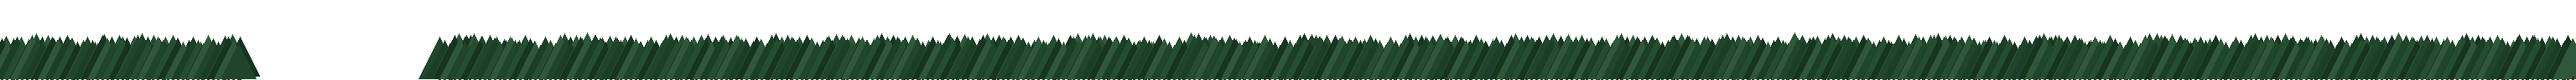
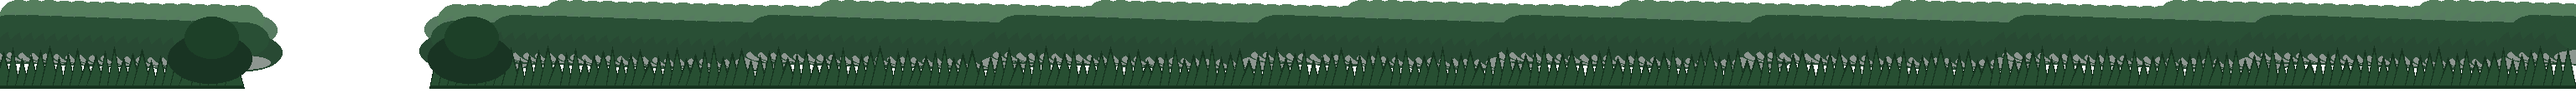
Mass Oakhaven pine canopy, deepen waterfall, and enlarge storefront signs (P95-P98).

diff --git a/projects/06-game-factory/perfect_game/perfect-game/tools/gen_p95_mass.py b/projects/06-game-factory/perfect_game/perfect-game/tools/gen_p95_mass.py
@@ -1,0 +1,218 @@
+"""P95–P97: mass pine canopy, deeper fall bowl, readable pines, hero facades."""
+from __future__ import annotations
+
+import math
+from pathlib import Path
+
+from PIL import Image, ImageDraw, ImageFont
+
+PROC = Path(__file__).resolve().parents[1] / "assets" / "processed"
+WORLD_W = 192 * 16
+
+
+def _font():
+    try:
+        return ImageFont.load_default()
+    except Exception:
+        return None
+
+
+def pine_canopy() -> None:
+    """Hand-mass style canopy: overlapping dark blobs + soft underside, not hatched triangles."""
+    w, h = WORLD_W, 112
+    img = Image.new("RGBA", (w, h), (0, 0, 0, 0))
+    d = ImageDraw.Draw(img)
+
+    def in_wf(x: int) -> bool:
+        return 288 <= x <= 520
+
+    # Far cool band (lighter)
+    for x in range(0, w, 18):
+        if in_wf(x):
+            continue
+        cx = x + 20
+        cy = 28 + (x // 40) % 8
+        d.ellipse((cx - 36, cy - 18, cx + 40, cy + 22), fill=(40, 85, 52, 200))
+        d.ellipse((cx - 20, cy - 28, cx + 24, cy + 8), fill=(48, 98, 58, 210))
+
+    # Mid dark mass
+    for x in range(0, w, 14):
+        if in_wf(x):
+            continue
+        cx = x + 10
+        cy = 48 + (x // 30) % 10
+        d.ellipse((cx - 42, cy - 16, cx + 46, cy + 28), fill=(22, 58, 34, 235))
+        d.ellipse((cx - 28, cy - 30, cx + 30, cy + 10), fill=(28, 68, 40, 240))
+        # soft underside shadow
+        d.ellipse((cx - 30, cy + 10, cx + 32, cy + 26), fill=(12, 32, 20, 120))
+
+    # Near jagged dark tips (readable pine points on mass)
+    for x in range(4, w - 4, 11):
+        if in_wf(x):
+            continue
+        base = h - 6
+        tip = base - (34 + (x * 7) % 18)
+        half = 8 + (x % 5)
+        d.polygon([(x, tip), (x - half, base), (x + half, base)], fill=(18, 48, 28, 250))
+        d.polygon(
+            [(x, tip + 8), (x - half + 2, base - 4), (x + half - 2, base - 4)],
+            fill=(30, 72, 42, 245),
+        )
+
+    # Extra dark clumps near waterfall edges (amphitheater flanks)
+    for cx in (250, 560):
+        d.ellipse((cx - 50, 40, cx + 50, 100), fill=(16, 44, 26, 245))
+        d.ellipse((cx - 30, 20, cx + 34, 70), fill=(24, 60, 36, 250))
+
+    img.save(PROC / "prop_pine_canopy.png")
+    print("OK prop_pine_canopy", w, h)
+
+
+def pine_variants() -> None:
+    specs = [
+        ("tree_pine_b.png", (26, 70, 40), 0.0),
+        ("tree_pine_c.png", (34, 78, 44), 0.15),
+    ]
+    for name, base, lean in specs:
+        tw, th = 48, 64
+        img = Image.new("RGBA", (tw, th), (0, 0, 0, 0))
+        d = ImageDraw.Draw(img)
+        cx = int(24 + lean * 8)
+        layers = [(6, 44, 14), (14, 34, 11), (22, 24, 8), (28, 16, 6)]
+        for top, hh, half in layers:
+            c = (base[0], base[1], base[2], 250)
+            d.polygon([(cx, top), (cx - half, top + hh), (cx + half, top + hh)], fill=c)
+            # highlight edge
+            d.line([(cx, top), (cx + half - 1, top + hh - 2)], fill=(base[0] + 30, base[1] + 35, base[2] + 20, 200))
+        d.rectangle((cx - 2, 52, cx + 2, 62), fill=(72, 48, 30, 255))
+        img.save(PROC / name)
+        print("OK", name, tw, th)
+
+
+def waterfall_bowl() -> None:
+    w, h = 144, 160
+    img = Image.new("RGBA", (w, h), (0, 0, 0, 0))
+    d = ImageDraw.Draw(img)
+    # Cliff shelves (3 terraces)
+    for shelf_y, shelf_h, inset in [(0, 36, 8), (28, 28, 14), (48, 24, 20)]:
+        for y in range(shelf_y, shelf_y + shelf_h):
+            for x in range(inset, w - inset):
+                dx = x - w // 2
+                if abs(dx) > (w // 2 - inset - (y - shelf_y) // 3):
+                    continue
+                n = (x * 13 + y * 17) & 7
+                rr = 70 + n * 3 + (y - shelf_y)
+                gg = 68 + n * 2
+                bb = 62 + n
+                if n == 2:
+                    rr, gg, bb = 45, 82, 42
+                img.putpixel((x, y), (min(125, rr), min(110, gg), min(100, bb), 255))
+    # Sky notch
+    for y in range(0, 20):
+        for x in range(52, 92):
+            img.putpixel((x, y), (0, 0, 0, 0))
+    # Falls
+    for i, x0 in enumerate(range(50, 94, 5)):
+        wob = int(2 * math.sin(i * 0.8))
+        d.rectangle((x0 + wob, 36, x0 + 6 + wob, h - 48), fill=(145, 195, 235, 210))
+        d.rectangle((x0 + 2 + wob, 38, x0 + 5 + wob, h - 50), fill=(200, 228, 255, 235))
+    # Pool
+    for y in range(h - 52, h - 10):
+        for x in range(40, 104):
+            dx, dy = x - 72, y - (h - 32)
+            if dx * dx * 0.75 + dy * dy * 1.5 < 520:
+                depth = abs(dy)
+                img.putpixel((x, y), (60 + depth, 145 + depth // 2, 185 + depth // 3, 255))
+    # Foam + mist
+    d.ellipse((36, h - 56, w - 36, h - 16), fill=(230, 240, 255, 130))
+    for fx, fy in [(48, h - 40), (60, h - 36), (72, h - 38), (84, h - 36), (68, h - 28)]:
+        d.ellipse((fx, fy, fx + 12, fy + 7), fill=(255, 255, 255, 230))
+    for rx in (42, 56, 72, 88, 98):
+        d.ellipse((rx, h - 26, rx + 14, h - 14), fill=(92, 86, 78, 255))
+    img.save(PROC / "prop_waterfall_bowl.png")
+    print("OK prop_waterfall_bowl", w, h)
+
+
+def facade(name: str, roof: tuple, awn_a: tuple, awn_b: tuple, sign_bg: tuple, wall: tuple, label: str) -> None:
+    w, h = 152, 136
+    img = Image.new("RGBA", (w, h), (0, 0, 0, 0))
+    d = ImageDraw.Draw(img)
+    d.polygon([(4, 36), (76, 2), (148, 36)], fill=roof)
+    shade = tuple(max(0, c - 40) for c in roof[:3]) + (255,)
+    d.polygon([(4, 36), (148, 36), (138, 48), (14, 48)], fill=shade)
+    for yy in range(10, 36, 3):
+        d.line([(24, yy), (128, yy)], fill=shade, width=1)
+    d.rectangle((118, 10, 136, 38), fill=(110, 100, 94, 255))
+    d.ellipse((120, 0, 138, 14), fill=(230, 230, 235, 150))
+    d.rectangle((8, h - 22, w - 8, h - 4), fill=(128, 122, 114, 255))
+    d.rectangle((12, 48, w - 12, h - 22), fill=wall)
+    d.rectangle((12, 48, w - 12, h - 22), outline=(70, 50, 34, 255), width=2)
+    for bx in range(18, w - 18, 7):
+        d.line([(bx, 50), (bx, h - 24)], fill=(max(0, wall[0] - 22), max(0, wall[1] - 22), max(0, wall[2] - 22), 255))
+    for i, x0 in enumerate(range(16, 132, 12)):
+        c = awn_a if i % 2 == 0 else awn_b
+        d.rectangle((x0, 50, x0 + 11, 70), fill=c)
+        d.pieslice((x0, 66, x0 + 11, 80), 0, 180, fill=c)
+    # Big readable sign
+    d.rectangle((36, 74, 116, 100), fill=(80, 55, 34, 255))
+    d.rectangle((40, 78, 112, 96), fill=sign_bg)
+    d.text((48, 82), label, fill=(35, 25, 18, 255), font=_font())
+    for wx in (16, 112):
+        d.rectangle((wx, 78, wx + 24, 102), fill=(155, 200, 235, 255))
+        d.line([(wx + 12, 78), (wx + 12, 102)], fill=(100, 145, 170, 255))
+        d.rectangle((wx - 1, 102, wx + 25, 110), fill=(55, 115, 48, 255))
+    d.rectangle((68, h - 52, 84, h - 22), fill=(95, 60, 40, 255))
+    d.rectangle((78, h - 42, 80, h - 40), fill=(220, 190, 100, 255))
+    img.save(PROC / name)
+    print("OK", name, label)
+
+
+def bakery() -> None:
+    w, h = 128, 118
+    img = Image.new("RGBA", (w, h), (0, 0, 0, 0))
+    d = ImageDraw.Draw(img)
+    d.polygon([(6, 32), (64, 2), (122, 32)], fill=(150, 62, 48, 255))
+    d.polygon([(6, 32), (122, 32), (114, 42), (14, 42)], fill=(110, 42, 32, 255))
+    d.rectangle((10, 42, w - 10, h - 6), fill=(228, 210, 185, 255))
+    d.rectangle((10, 42, w - 10, h - 6), outline=(72, 52, 36, 255), width=2)
+    d.rectangle((8, h - 16, w - 8, h - 4), fill=(125, 118, 110, 255))
+    for i, x0 in enumerate(range(14, 110, 10)):
+        c = (210, 60, 55, 255) if i % 2 == 0 else (245, 245, 245, 255)
+        d.rectangle((x0, 44, x0 + 9, 58), fill=c)
+        d.pieslice((x0, 54, x0 + 9, 66), 0, 180, fill=c)
+    d.rectangle((24, 62, 104, 86), fill=(85, 58, 36, 255))
+    d.rectangle((28, 66, 100, 82), fill=(245, 220, 150, 255))
+    d.text((36, 68), "BAKERY", fill=(70, 40, 20, 255), font=_font())
+    d.rectangle((54, h - 40, 74, h - 16), fill=(100, 65, 42, 255))
+    img.save(PROC / "prop_bakery.png")
+    print("OK prop_bakery")
+
+
+def main() -> None:
+    pine_canopy()
+    pine_variants()
+    waterfall_bowl()
+    facade(
+        "prop_shop_awning.png",
+        (148, 58, 46, 255),
+        (200, 55, 50, 255),
+        (245, 245, 245, 255),
+        (245, 220, 140, 255),
+        (218, 198, 168, 255),
+        "GENERAL STORE",
+    )
+    facade(
+        "prop_cafe_awning.png",
+        (38, 110, 116, 255),
+        (45, 145, 150, 255),
+        (240, 248, 248, 255),
+        (200, 235, 230, 255),
+        (210, 200, 178, 255),
+        "OAKHAVEN CAFE",
+    )
+    bakery()
+    print("P95-P97 assets done")
+
+
+if __name__ == "__main__":
+    main()

diff --git a/projects/06-game-factory/perfect_game/perfect-game/docs/VISUAL_CRITIC_OVERVIEW.md b/projects/06-game-factory/perfect_game/perfect-game/docs/VISUAL_CRITIC_OVERVIEW.md
@@ -1,18 +1,18 @@
-# 视觉 Critic — golden vs overview（2026-09-07 · P91–P94）
+# 视觉 Critic — golden vs overview（2026-09-07 · P95–P98）
 
 ## 结论
-更接近 overview：**是**（北缘改用全宽松冠条批处理，去掉约 2.7k 树 Sprite；松树 B/C 变体点缀；瀑池接河软岸）。  
-达到「商店页可直接当主图」：**否**。
+更接近 overview：**是**（林冠改为团块层次+暗底；瀑碗加深阶地；河岸软化；店面放大并写 GENERAL STORE / OAKHAVEN CAFE / BAKERY）。  
+达到「商店页可直接当主图」：**否**（镇区近景招牌仍偏糊，整体仍非 itch 海报级）。
 
 ## 本轮证据
-- MCP `0` error · `GOLDEN_CAPTURE_DONE`（启动更快）
-- `prop_pine_canopy.png` 3072×96 ×2 叠层 + 稀疏 `tree_pine`/`_b`/`_c` 点缀
-- 瀑头 amphitheater 内水外崖；池口不规则岸（CLIFF/WE/草）
-- `07_waterfall` 可见泡沫池与岩石，无褐色农田条带
+- MCP `0` error · `GOLDEN_CAPTURE_DONE`
+- `prop_pine_canopy` 团块+尖顶层次；`tree_pine_b/c` 48×64
+- `prop_waterfall_bowl` 144×160 三层崖架
+- 全河软岸 dither；hero 店面 scale↑ 与长招牌文案
 
 ## 仍差
-1. 松冠条仍是程序三角林，未达参考油画林海层次  
-2. 瀑布精灵仍偏平面；店面/路径 tile 未达标  
+1. 林冠/瀑仍是 PIL 程序感，未达参考油画  
+2. 镇区 golden 招牌可读性不足；路径/广场 tile 感仍强  
 3. 用户签字试玩 + itch URL 仍缺  
 
 ## Goal

diff --git a/projects/06-game-factory/perfect_game/perfect-game/docs/GOAL_5H_PACKAGES.md b/projects/06-game-factory/perfect_game/perfect-game/docs/GOAL_5H_PACKAGES.md
@@ -283,3 +283,15 @@
 
 ### 松冠批处理进度
 - [x] P91 · P92 · P93 · P94  
+
+## 团块林冠与店面放大（≠ complete）
+
+| ID | 估时 | 目标 | 完成证据 |
+|----|------|------|----------|
+| P95 | 35m | 团块层次松冠 | overview |
+| P96 | 30m | 加深瀑碗 + 可读 pine_b/c | waterfall |
+| P97 | 30m | 店面放大招牌 + 全河软岸 | town/river |
+| P98 | 25m | golden + Critic + push | origin/main |
+
+### 团块林冠进度
+- [x] P95 · P96 · P97 · P98  
